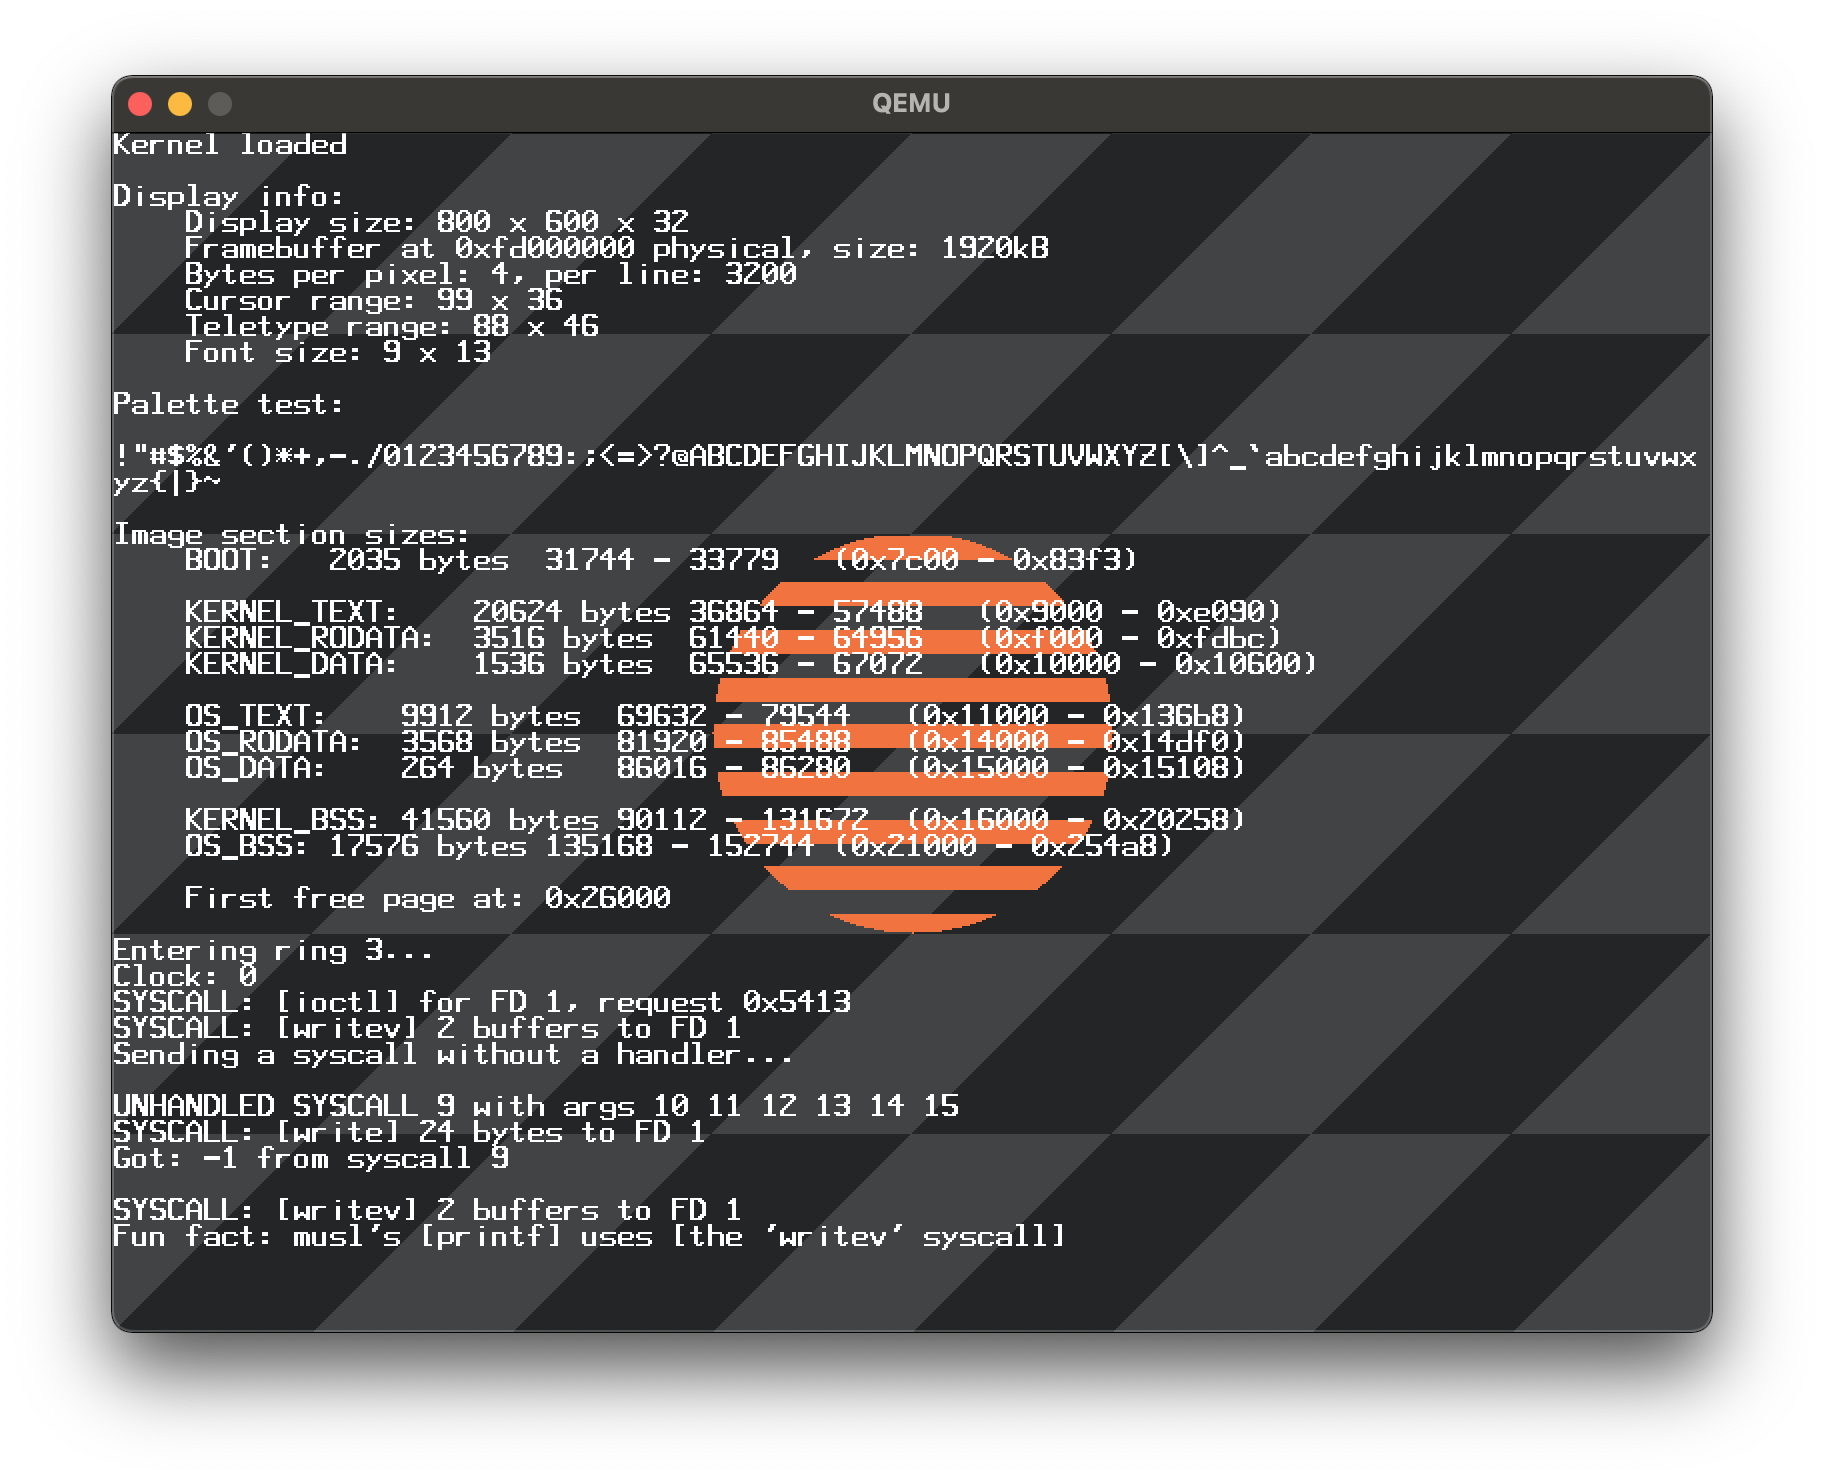
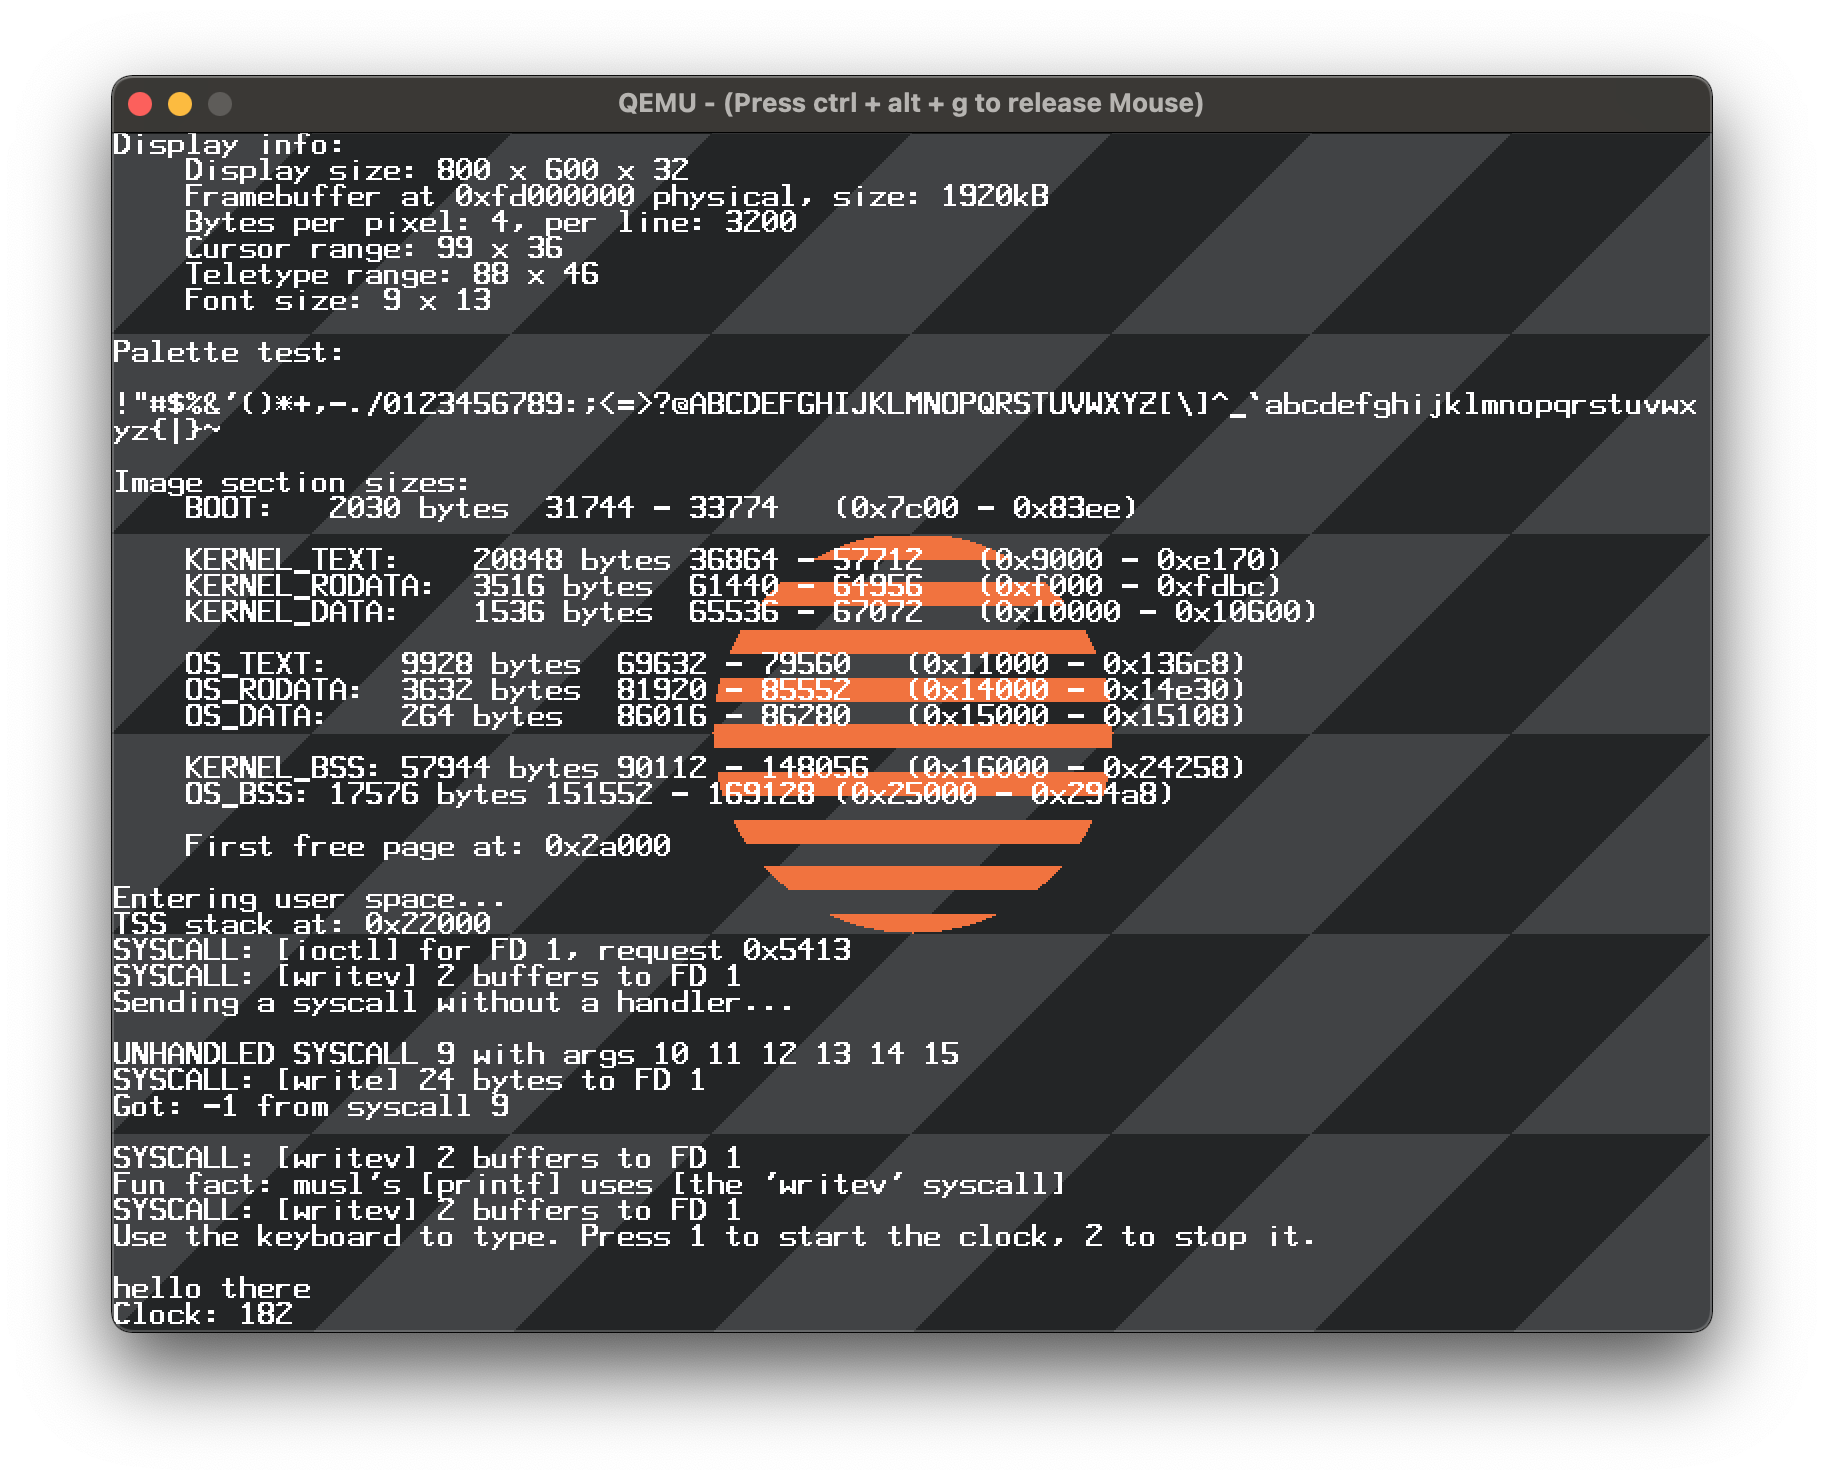
Fixed CS in STAR MSR by rearranging the GDT
- Added typing with the keyboard
- Added clock controls

diff --git a/src/kernel/src/Kernel.c b/src/kernel/src/Kernel.c
@@ -9,7 +9,17 @@
 #include <KbController.h>
 
 void printKey(char character, __attribute((unused)) unsigned char scancode) {
-    log("%c", character);
+    switch (character) {
+        case '1':
+            IRQ_clear_mask(0);
+            return;
+        case '2':
+            IRQ_set_mask(0);
+            return;
+        default:
+            log("%c", character);
+            break;
+    }
 }
 
 noreturn void kmain() {
@@ -19,26 +29,24 @@ noreturn void kmain() {
     PIC_remap(0x20, 0x28);
     IDT_init();
 
-    // Mask out the timer IRQ
-    IRQ_set_mask(0);
-
     // Welcome user
     clearScreen();
-
-    log("Kernel loaded\n\n");
 
     vga_info();
     log("\n");
     section_info();
 
-    log("\nEntering ring 3...\n");
-
     vmm_set_page_permissions();
     subscribePress(printKey);
+
+    // Disable the clock by default
+    IRQ_set_mask(0);
     enable_interrupts();
+
+    log("\nEntering user space...\n");
     enter_user_mode();
 
-    log("Back from ring 3 somehow!\n");
+    log("Back from ring 3 somehow ?!\n");
 
     // Do not exit from kernel, rather wait for interrupts
     while (true) {

diff --git a/src/kernel/src/KbController.c b/src/kernel/src/KbController.c
@@ -3,8 +3,8 @@
 #define MAX_HANDLERS 8
 
 char translationTable[] = {0, 0,
-                           '1', '2', '3', '4', '5', '6', '7', '8', '9', '0', '-', '=', 0, 0,
-                           'q', 'w', 'e', 'r', 't', 'y', 'u', 'i', 'o', 'p', '[', ']', 0, 0,
+                           '1', '2', '3', '4', '5', '6', '7', '8', '9', '0', '-', '=', '\b', '\t',
+                           'q', 'w', 'e', 'r', 't', 'y', 'u', 'i', 'o', 'p', '[', ']', '\n', 0,
                            'a', 's', 'd', 'f', 'g', 'h', 'j', 'k', 'l', ';', '\'',
                            '~', 0, '\\', 'z', 'x', 'c', 'v', 'b', 'n', 'm', ',', '.', '/', 0, 0, 0, ' '};
 

diff --git a/src/os/src/Main.c b/src/os/src/Main.c
@@ -13,5 +13,8 @@ int os_main(void) {
     write(1, buf, strlen(buf));
 
     printf("Fun fact: musl's [%s] uses [%s]\n", "printf", "the 'writev' syscall");
+
+    printf("Use the keyboard to type. Press 1 to start the clock, 2 to stop it.\n\n");
+
     return 0;
 }

diff --git a/src/kernel/src/Interrupts.c b/src/kernel/src/Interrupts.c
@@ -126,7 +126,7 @@ void isr_handler(const ISR_Frame regs) {
 void irq0_handler(void) {
     static unsigned long clock = 0;
     PIC_send_EOI(0);
-    log("Clock: %lu\n", clock++);
+    log("Clock: %lu\r", clock++);
 }
 
 void irq1_handler(void) {

diff --git a/README.md b/README.md
@@ -1,8 +1,9 @@
 # Bootable stuff
 
-**Work in progress.**
-
 This repository contains a two-stage bootloader, an x86_64 kernel, and a ring 3 OS, all written from scratch.
+
+The system is still under development. 
+Does not run DOOM yet.
 
 ![current state](docs/current.png)
 
